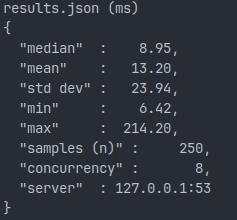
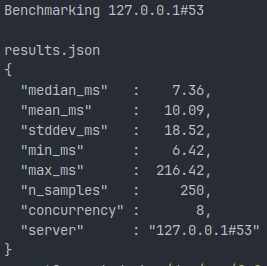
update output format

diff --git a/src/main.rs b/src/main.rs
@@ -76,7 +76,7 @@ fn main() {
       (server.to_string(), port)
    };
 
-   println!("{dns_server}#{dns_port}");
+   println!("Benchmarking {dns_server}#{dns_port}\n");
 
    let dns_addr = unsafe {
       net::sockaddr_in::new(
@@ -219,16 +219,16 @@ fn main() {
          );
       }
 
-      println!("results.json (ms)");
+      println!("results.json");
       println!("{{");
-      println!("  {:<9} : {:>7.2},", "\"median\"", median / 1_000_000f64);
-      println!("  {:<9} : {:>7.2},", "\"mean\"", mean / 1_000_000f64);
-      println!("  {:<9} : {:>7.2},", "\"std dev\"", std_dev / 1_000_000f64);
-      println!("  {:<9} : {:>7.2},", "\"min\"", min / 1_000_000f64);
-      println!("  {:<9} : {:>7.2},", "\"max\"", max / 1_000_000f64);
-      println!("  {:<9} : {:>7.2},", "\"samples (n)\"", statics::DOMAINS_TO_INCLUDE);
-      println!("  {:<9} : {:>7},", "\"concurrency\"", statics::MAX_CONCURRENCY);
-      println!("  {:<9} : {:>7}#{}", "\"server\"", dns_server, dns_port);
+      println!("  {:<13} : {:>7.2},", "\"median_ms\"", median / 1_000_000f64);
+      println!("  {:<13} : {:>7.2},", "\"mean_ms\"", mean / 1_000_000f64);
+      println!("  {:<13} : {:>7.2},", "\"stddev_ms\"", std_dev / 1_000_000f64);
+      println!("  {:<13} : {:>7.2},", "\"min_ms\"", min / 1_000_000f64);
+      println!("  {:<13} : {:>7.2},", "\"max_ms\"", max / 1_000_000f64);
+      println!("  {:<13} : {:>7.2},", "\"n_samples\"", statics::DOMAINS_TO_INCLUDE);
+      println!("  {:<13} : {:>7},", "\"concurrency\"", statics::MAX_CONCURRENCY);
+      println!("  {:<13} : \"{:>7}#{}\"", "\"server\"", dns_server, dns_port);
 
       println!("}}");
    }
